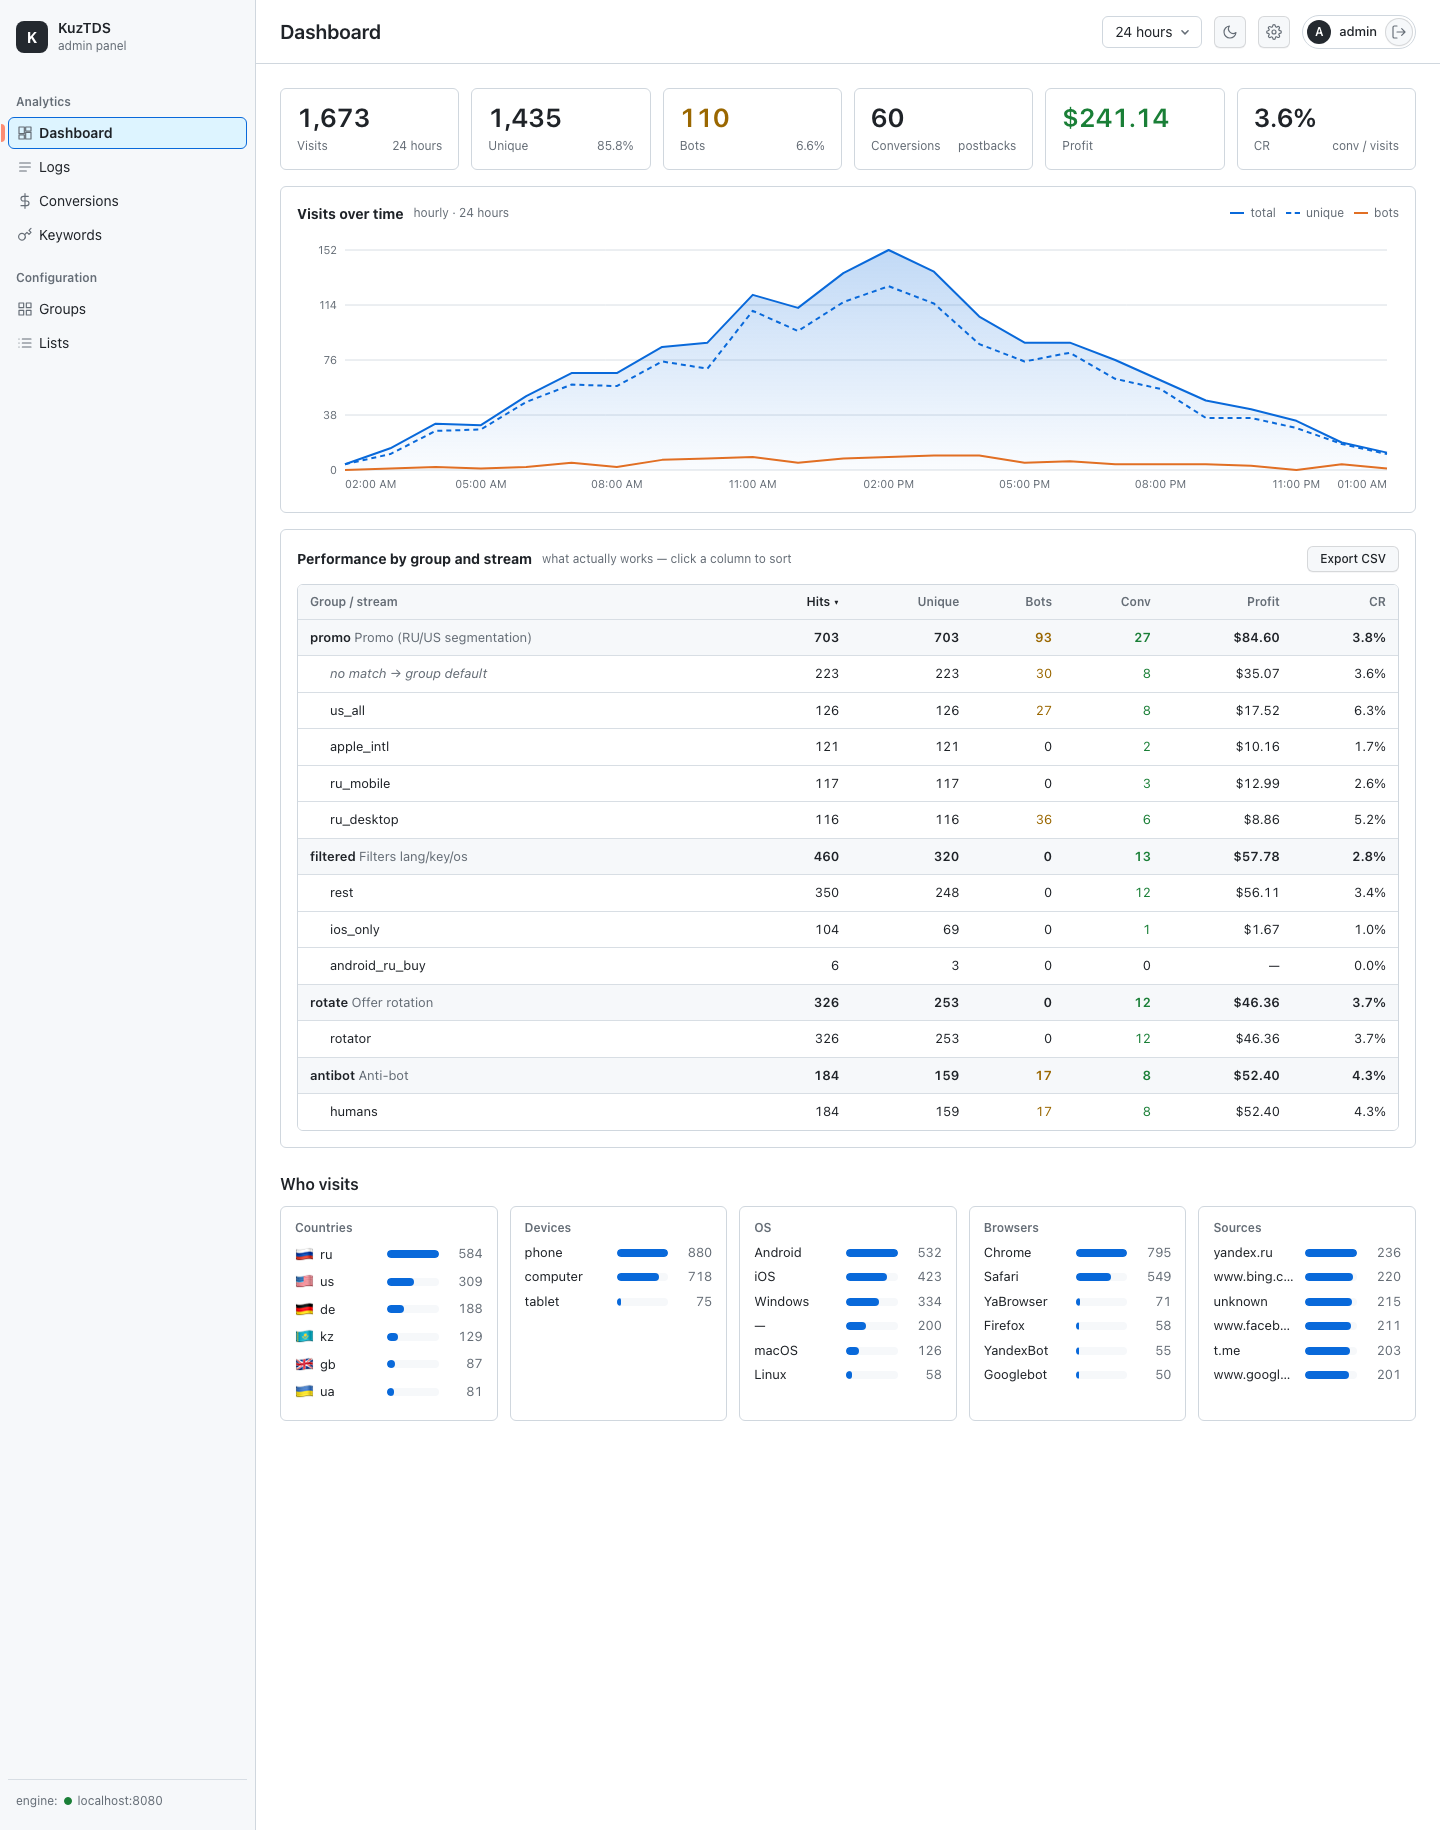
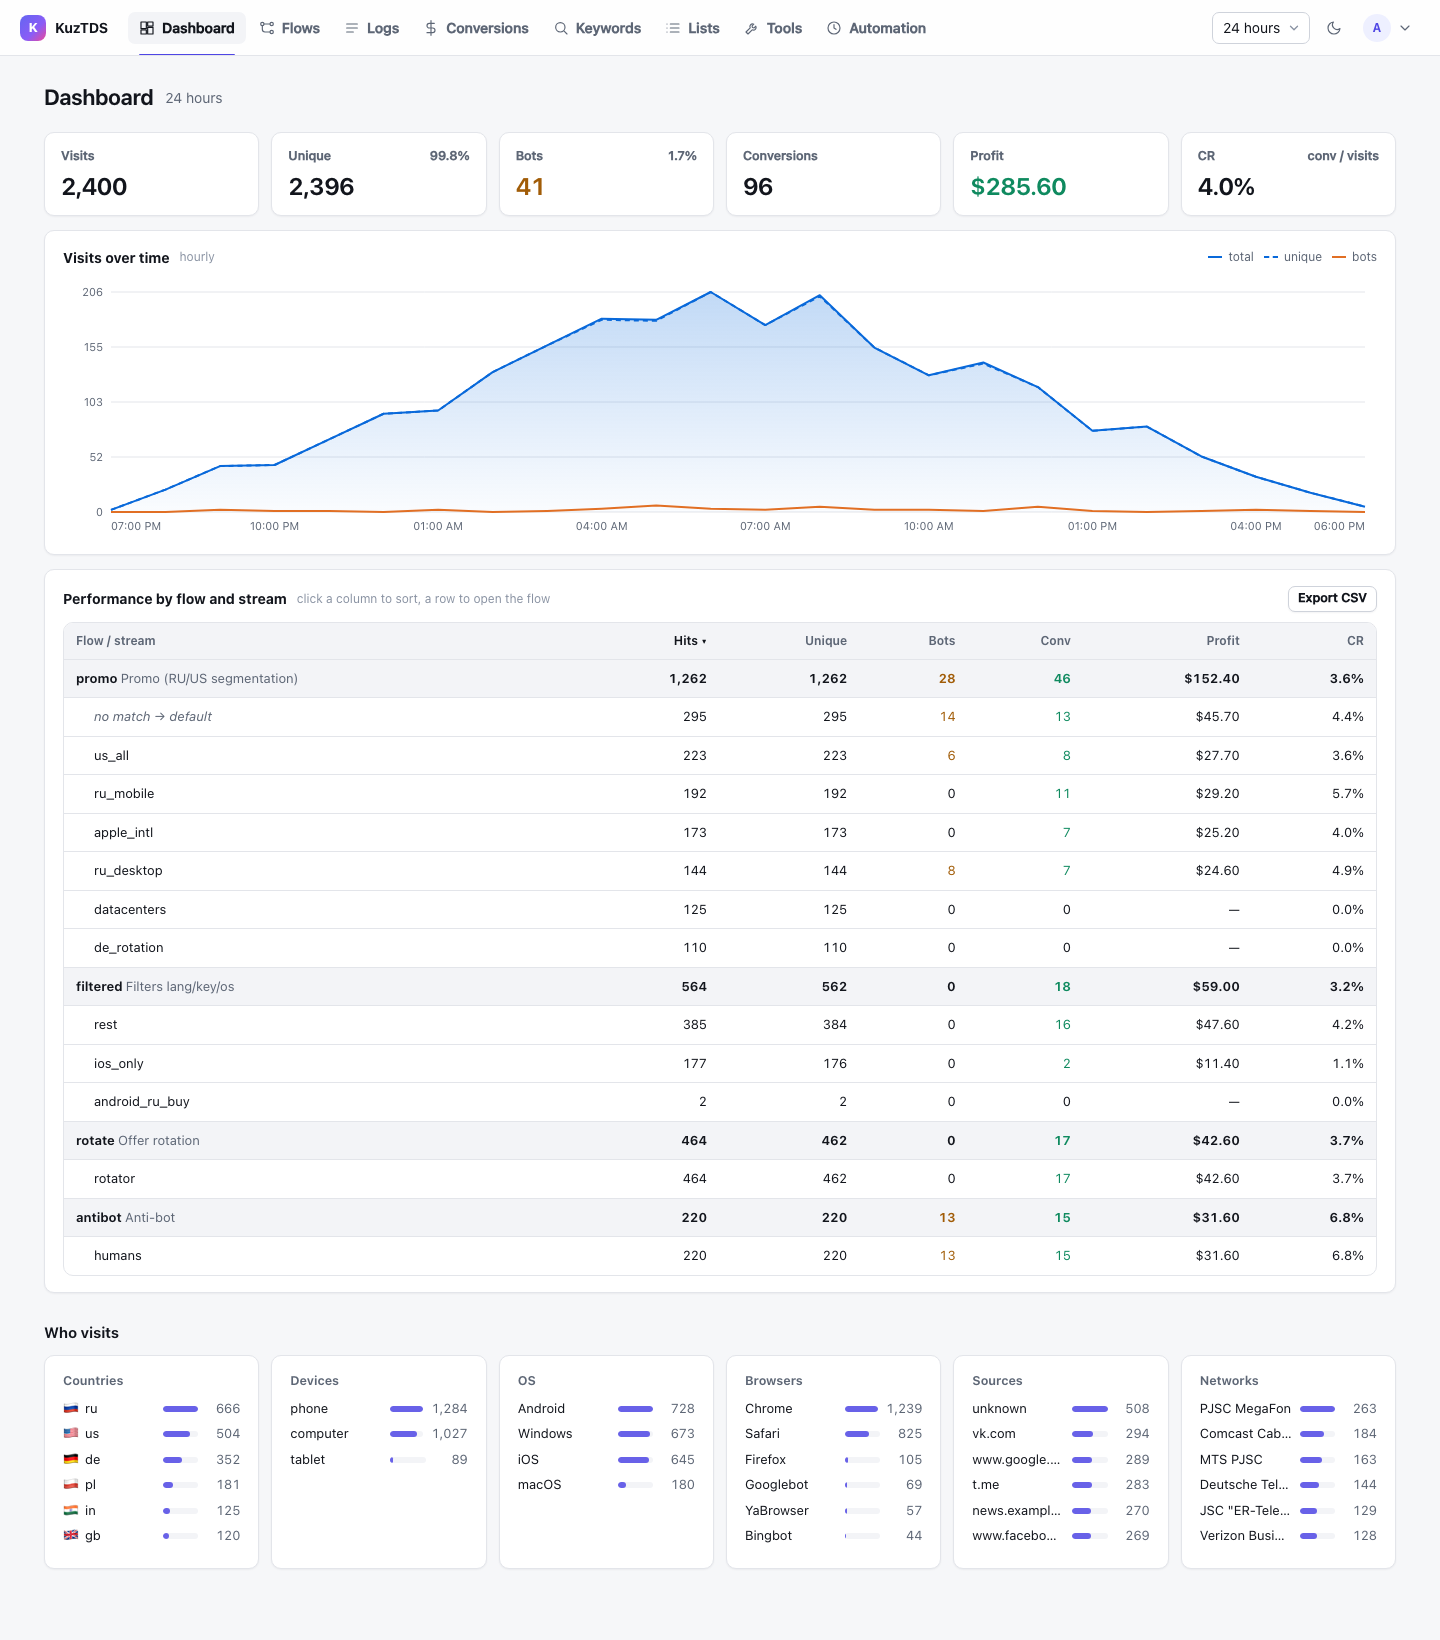
chore: screenshots from the live stand, deterministic transport test, cron in make build
- docs/img: flow, flow-test, stream, flows, automation, dashboard, logs —
  retaken from the running stack; the screenshots of the previous layout go.
- fetch: TestConnectionReuse asserted "tuned <= default", which depends on how
  the scheduler interleaves the workers and failed on a loaded CI runner. It
  now checks the bound the tuned transport actually guarantees.
- geo imports time/tzdata itself, so every binary that resolves zones has it.
- admin UI: a flow ID may hold anything but whitespace, /, ? and #.

diff --git a/internal/admin/web/index.html b/internal/admin/web/index.html
@@ -891,8 +891,9 @@ async function saveFlows(){
   if(ids.some(x=>!x))throw new Error('Every flow needs an ID');
   const dup=ids.find((x,i)=>ids.indexOf(x)!==i);
   if(dup)throw new Error('Duplicate flow ID: '+dup);
-  const bad=ids.find(x=>!/^[A-Za-z0-9._-]+$/.test(x));
-  if(bad)throw new Error('Flow ID "'+bad+'" may contain only letters, digits, dot, dash and underscore');
+  // The ID is the first path segment of the link, so it cannot hold what ends one.
+  const bad=ids.find(x=>/[\s\/?#]/.test(x));
+  if(bad)throw new Error('Flow ID "'+bad+'" must not contain spaces, /, ? or #');
   await call('PUT','/api/groups',GROUPS);
   SAVED=JSON.stringify(GROUPS);
 }

diff --git a/internal/fetch/transport_test.go b/internal/fetch/transport_test.go
@@ -63,9 +63,16 @@ func TestConnectionReuse(t *testing.T) {
 
 	t.Logf("%d requests, 16 concurrent: default transport opened %d connections, tuned opened %d",
 		n, openedOld.Load(), openedNew.Load())
-	if openedNew.Load() > openedOld.Load() {
-		t.Errorf("tuned transport opened more connections (%d) than the default one (%d)",
-			openedNew.Load(), openedOld.Load())
+	// The assertion is a bound, not a comparison with the default transport:
+	// how many connections *that* one opens depends on how the scheduler
+	// interleaves the workers (on a busy single-core runner it can get away
+	// with very few), so "tuned <= default" fails now and then for reasons
+	// that have nothing to do with this package. What the tuned transport
+	// guarantees is that 16 workers never need more sockets than the idle
+	// pool keeps warm.
+	if got := openedNew.Load(); got > defaultMaxIdleConnsPerHost {
+		t.Errorf("tuned transport opened %d connections for %d requests from 16 workers; want at most %d (the idle pool)",
+			got, n, defaultMaxIdleConnsPerHost)
 	}
 }
 

diff --git a/cmd/engine/main.go b/cmd/engine/main.go
@@ -26,7 +26,6 @@ import (
 	"strings"
 	"syscall"
 	"time"
-	_ "time/tzdata" // time-zone filters must work in an image that ships no zoneinfo
 
 	"github.com/egerkuzma/kuztds/internal/config"
 	"github.com/egerkuzma/kuztds/internal/detect"

diff --git a/cmd/admin/main.go b/cmd/admin/main.go
@@ -15,7 +15,6 @@ import (
 	"os/signal"
 	"syscall"
 	"time"
-	_ "time/tzdata" // the panel shows UTC offsets; must work without system zoneinfo
 
 	"github.com/egerkuzma/kuztds/internal/admin"
 	"github.com/egerkuzma/kuztds/internal/geo"

diff --git a/internal/geo/geo.go b/internal/geo/geo.go
@@ -13,6 +13,7 @@ import (
 	"strings"
 	"sync"
 	"time"
+	_ "time/tzdata" // zone names must resolve in an image that ships no zoneinfo
 )
 
 // Empty — the "no data" value.
